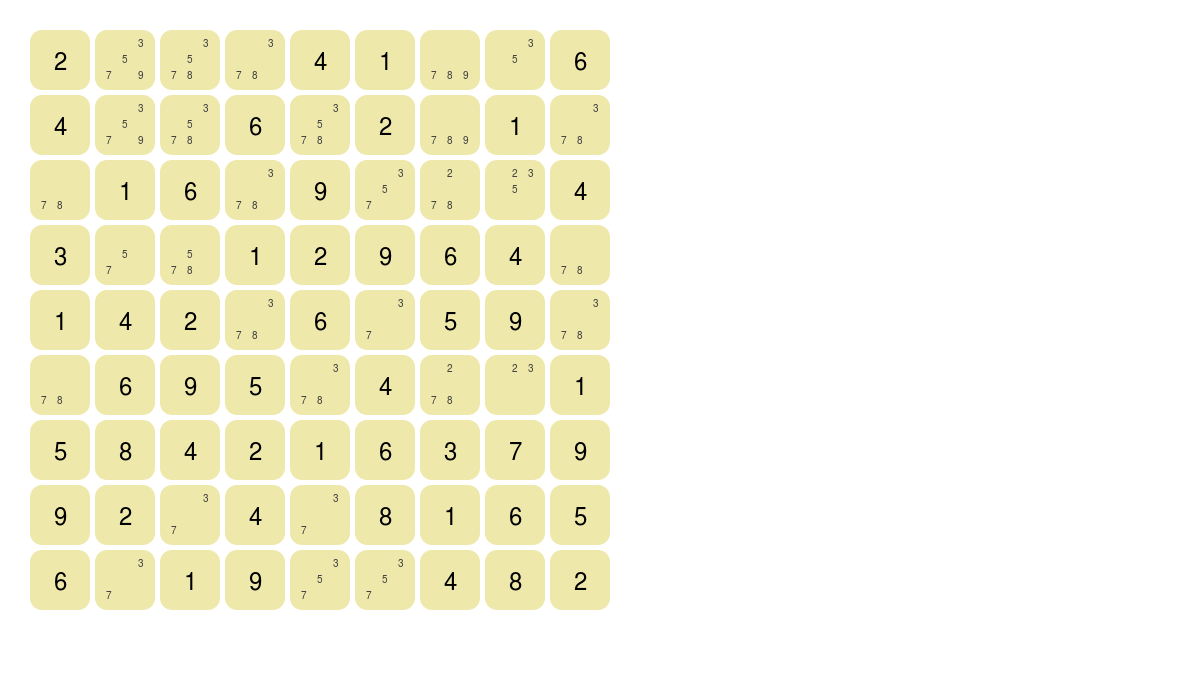
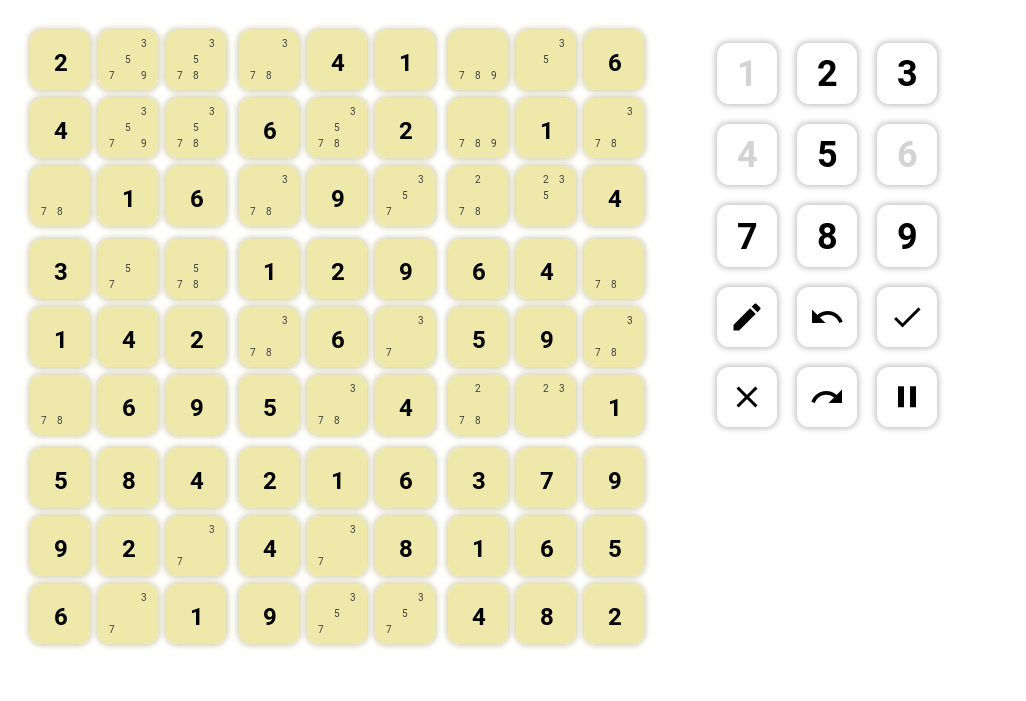
Finish the play controller and all the click wiring, some style tweaks

diff --git a/public/scripts/components/sudokuPlayController.js b/public/scripts/components/sudokuPlayController.js
@@ -32,15 +32,64 @@ var ControllerDigit = React.createClass({
 
     return (
       <td>
-        <div className={buttonClass} onClick={this.onDigitClicked}>
-          <div className={digitClass}>{this.props.digit}</div>
+        <div className={buttonClass} onClick={this.onDigitClicked} padding="5px">
+          <div className={digitClass}>
+            {this.props.digit}
+          </div>
         </div>
       </td>
     );
   },
 
   onDigitClicked: function() {
-    this.props.onDigitClicked(this.props.digit);
+    if (this.props.enabled) {
+      this.props.onDigitClicked(this.props.digit);
+    }
+  }
+
+});
+
+var ControllerButton = React.createClass({
+  propTypes: {
+    iconName: React.PropTypes.string.isRequired,
+    enabled: React.PropTypes.bool.isRequired,
+    selected: React.PropTypes.bool.isRequired,
+    onButtonClicked: React.PropTypes.func.isRequired
+  },
+
+  mixins: [
+    Fluxxor.FluxMixin(React)
+  ],
+
+  render: function() {
+    var buttonClass = classNames({
+      controllerButton: true,
+      controllerButtonEnabled: this.props.enabled,
+      controllerButtonSelected: this.props.selected,
+      controllerButtonDisabled: !this.props.enabled
+    });
+    var iconClass = classNames({
+      controllerIcon: true,
+      controllerIconEnabled: this.props.enabled,
+      controllerIconSelected: this.props.selected,
+      controllerIconDisabled: !this.props.enabled,
+      "material-icons": true,
+      "md-36": true
+    });
+
+    return (
+      <td>
+        <div className={buttonClass} onClick={this.onButtonClicked} padding="5px">
+          <i className={iconClass}>{this.props.iconName}</i>
+        </div>
+      </td>
+    );
+  },
+
+  onButtonClicked: function() {
+    if (this.props.enabled) {
+      this.props.onButtonClicked(this.props.iconName);
+    }
   }
 
 });
@@ -51,7 +100,8 @@ var ControllerFrame = React.createClass({
     digitSelected: React.PropTypes.number.isRequired,
     entryMode: React.PropTypes.string.isRequired,
     digitMode: React.PropTypes.string.isRequired,
-    onDigitClicked: React.PropTypes.func.isRequired
+    onDigitClicked: React.PropTypes.func.isRequired,
+    onButtonClicked: React.PropTypes.func.isRequired
   },
 
   render: function() {
@@ -65,13 +115,48 @@ var ControllerFrame = React.createClass({
         />;
     }
 
+    var tableStyle = {
+      borderCollapse: "separate",
+      borderSpacing: "6px"
+    };
+
     return (
       <div className="controllerFrame">
-        <table><tbody>
-          <tr>{digits[1]}{digits[2]}{digits[3]}</tr>
-          <tr>{digits[4]}{digits[5]}{digits[6]}</tr>
-          <tr>{digits[7]}{digits[8]}{digits[9]}</tr>
-        </tbody></table>
+        <table style={tableStyle}>
+          <tbody>
+            <tr>{digits[1]}{digits[2]}{digits[3]}</tr>
+            <tr>{digits[4]}{digits[5]}{digits[6]}</tr>
+            <tr>{digits[7]}{digits[8]}{digits[9]}</tr>
+            <tr>
+              <ControllerButton iconName="create"
+                                enabled={true}
+                                selected={false}
+                                onButtonClicked={this.props.onButtonClicked} />
+              <ControllerButton iconName="undo"
+                                enabled={true}
+                                selected={false}
+                                onButtonClicked={this.props.onButtonClicked} />
+              <ControllerButton iconName="done"
+                                enabled={true}
+                                selected={false}
+                                onButtonClicked={this.props.onButtonClicked} />
+            </tr>
+            <tr>
+              <ControllerButton iconName="clear"
+                                enabled={true}
+                                selected={false}
+                                onButtonClicked={this.props.onButtonClicked} />
+              <ControllerButton iconName="redo"
+                                enabled={true}
+                                selected={false}
+                                onButtonClicked={this.props.onButtonClicked} />
+              <ControllerButton iconName="pause"
+                                enabled={true}
+                                selected={false}
+                                onButtonClicked={this.props.onButtonClicked} />
+            </tr>
+          </tbody>
+        </table>
       </div>
     );
   }
@@ -101,17 +186,15 @@ var SudokuPlayController = React.createClass({
 
   render: function() {
     var digitsEnabled = [];
-    for (var i = 1; i <= 9; i++) {
-      digitsEnabled[i] = false;
-    }
     if (this.state.playControllerStore.entryMode === EntryMode.CELL_SELECTED) {
-      this.state.puzzleStore.candidates.forEach( (c) => {
-        if (c.getRow() === this.state.playControllerStore.cellRowSelected &&
-            c.getCol() === this.state.playControllerStore.cellColSelected) {
-          digitsEnabled[c.getDigit()] = true;
-        }
-      });
+      for (var i = 1; i <= 9; i++) {
+        digitsEnabled[i] = true;
+      }
     } else {
+      // only enable digits that have not been completely solved yet
+      for (i = 1; i <= 9; i++) {
+        digitsEnabled[i] = false;
+      }
       this.state.puzzleStore.candidates.forEach( (c) => { digitsEnabled[c.getDigit()] = true; });
     }
 
@@ -122,6 +205,7 @@ var SudokuPlayController = React.createClass({
           entryMode={this.state.playControllerStore.entryMode}
           digitMode={this.state.playControllerStore.digitMode}
           onDigitClicked={this.onDigitClicked}
+          onButtonClicked={this.onButtonClicked}
         />
     );
   },
@@ -132,6 +216,10 @@ var SudokuPlayController = React.createClass({
 
   onCellClicked: function(row, col) {
     console.log("Cell clicked at " + row + ", " + col);
+  },
+
+  onButtonClicked: function(iconName) {
+    console.log("Button clicked: " + iconName);
   }
 
 });

diff --git a/public/css/sudokuController.css b/public/css/sudokuController.css
@@ -1,11 +1,19 @@
+/* rule for styling the controller frame */
 .controllerFrame {
 	float:right;
 }
 
+/* rules for styling the controller buttons */
 .controllerButton {
-	height: 65px;
-	width: 65px;
+	height: 60px;
+	width: 60px;
 	background-color: transparent;
+	box-shadow: 0px 0px 5px 2px rgba(178, 178, 176, 0.75);
+	webkit-box-shadow: 0px 0px 5px 2px rgba(178, 178, 176, 0.75);
+	moz-box-shadow: 0px 0px 5px 2px rgba(178, 178, 176, 0.75);
+	border-radius: 20%;
+	display: table-cell;
+    vertical-align: middle 
 }
 
 .controllerButtonSelected {
@@ -21,22 +29,62 @@
 
 }
 
+/* rules for styling the digits in the contoller buttons */
 .controllerDigit {
-	position:absolute;
-	z-index: 2;
-	font-size: 24px;
-	transform: translate(24px, 12px);
+	font-size: 36px;
+	font-family: 'Roboto', sans-serif;
 	font-weight: bold;
+	width: 1ch;
+	display: block;
+    margin-left: auto;
+    margin-right: auto
 }
 
 .controllerDigitEnabled {
-	font-color: black;
+	color: black;
 }
 
 .controllerDigitSelected {
-	font-color: white;
+	color: white;
 }
 
 .controllerDigitDisabled {
-	font-color: gray;
+	color: lightgrey;
+}
+
+/* Rules for sizing the icon. */
+.material-icons.md-18 { font-size: 18px; }
+.material-icons.md-24 { font-size: 24px; }
+.material-icons.md-36 { font-size: 36px; }
+.material-icons.md-48 { font-size: 48px; }
+
+/* Rules for using icons as black on a light background. */
+.material-icons.md-dark { color: rgba(0, 0, 0, 0.54); }
+.material-icons.md-dark.md-inactive { color: rgba(0, 0, 0, 0.26); }
+
+/* Rules for using icons as white on a dark background. */
+.material-icons.md-light { color: rgba(255, 255, 255, 1); }
+.material-icons.md-light.md-inactive { color: rgba(255, 255, 255, 0.3); }
+
+/* app-specific icon rules */
+.controllerIcon {
+	font-size: 36px;
+	width: 1ch;
+	display: block;
+    margin-left: auto;
+    margin-right: auto;
+    vertical-align: middle;
+    text-align: center;
+}
+
+.controllerIconEnabled {
+	color: black;
+}
+
+.controllerIconSelected {
+	color: white;
+}
+
+.controllerIconDisabled {
+	color: lightgrey;
 }

diff --git a/public/scripts/components/sudokuGrid.js b/public/scripts/components/sudokuGrid.js
@@ -1,5 +1,6 @@
 var React = require("react");
 var Fluxxor = require("fluxxor");
+var viewConst = require("../constants/sudokuConst.js").sudokuViewConst;
 
 // component to render a single candidate
 var GridCandidate = React.createClass({
@@ -76,10 +77,20 @@ var GridCell = React.createClass({
   ],
 
   render: function() {
+    var shadow = "0px 0px 5px 2px rgba(198, 194, 153, 0.75)";
+
     var style = {
-      top: this.props.row * 65,
-      left: this.props.col * 65
+      top: this.props.row * (viewConst.GRID_CELL_SIZE + viewConst.GRID_CELL_SPACING) +
+           Math.floor(this.props.row / 3) * viewConst.GRID_UNIT_SPACING,
+      left: this.props.col * (viewConst.GRID_CELL_SIZE + viewConst.GRID_CELL_SPACING) +
+           Math.floor(this.props.col / 3) * viewConst.GRID_UNIT_SPACING,
+      width: viewConst.GRID_CELL_SIZE,
+      height: viewConst.GRID_CELL_SIZE,
+      boxShadow: shadow,
+      WebkitBoxShadow: shadow,
+      MozBoxShadow: shadow
     };
+
     var elem = this.props.solution != 0
         ? <GridSolved solution={this.props.solution} />
         : (this.props.hint != 0
@@ -87,6 +98,7 @@ var GridCell = React.createClass({
           : <GridCandidatesLayer candidates={this.props.candidates} />
           )
     ;
+
     return (
       <div className="gridCell" style={style}
           onClick={this.onCellClicked}>
@@ -147,11 +159,19 @@ var GridFrame = React.createClass({
             solution={cellProps[row][col].solution}
             hint={cellProps[row][col].hint}
             onCellClicked={this.props.onCellClicked}
-            />);
+          />);
       }
     }
+
+    var style = {
+      width: viewConst.GRID_SIZE(),
+      height: viewConst.GRID_SIZE()
+    };
+
     return (
-      <div className="gridFrame">{cells}</div>
+      <div className="gridFrame" style={style}>
+        {cells}
+      </div>
     );
   }
 });

diff --git a/public/scripts/constants/sudokuConst.js b/public/scripts/constants/sudokuConst.js
@@ -48,12 +48,20 @@ sudokuUnitNames[sudokuUnitTypes.BOX] =
     namePlural: "boxes"
   };
 
+var sudokuViewConst = {
+  GRID_CELL_SIZE: 60,
+  GRID_CELL_SPACING: 8,
+  GRID_UNIT_SPACING: 5,
+  GRID_SIZE: function() {
+    return (sudokuViewConst.GRID_CELL_SIZE * 9) +
+           (sudokuViewConst.GRID_CELL_SPACING * 8) +
+           (sudokuViewConst.GRID_UNIT_SPACING * 2);
+  }
+};
+
 module.exports = {
-
   sudokuActionTypes: sudokuActionTypes,
-
   sudokuUnitTypes: sudokuUnitTypes,
-
-  sudokuUnitNames: sudokuUnitNames
-
+  sudokuUnitNames: sudokuUnitNames,
+  sudokuViewConst: sudokuViewConst
 };

diff --git a/public/index.html b/public/index.html
@@ -3,6 +3,8 @@
   <head>
     <meta charset="utf-8">
     <title>Sudoku</title>
+    <link href="https://fonts.googleapis.com/css?family=Roboto:400,700" rel="stylesheet" type="text/css">
+    <link href="https://fonts.googleapis.com/icon?family=Material+Icons" rel="stylesheet">
     <link rel="stylesheet" href="css/base.css" />
     <link rel="stylesheet" href="css/sudokuApp.css" />
     <link rel="stylesheet" href="css/sudokuGrid.css" />

diff --git a/public/css/sudokuGrid.css b/public/css/sudokuGrid.css
@@ -27,16 +27,13 @@
 }
 
 .gridCell {
-	width: 60px;
-	height: 60px;
-	position:absolute;
+	position: absolute;
     background-color: #EEE8AA;
-    border-radius: 12px;
+    border-radius: 20%;
+	font-family: 'Roboto', sans-serif;
 }
 
 .gridFrame {
 	position: relative;
-	width: 600px;
-	height: 600px;
 	float: left;
 }

diff --git a/public/css/sudokuApp.css b/public/css/sudokuApp.css
@@ -1,3 +1,4 @@
 .sudokuApp {
-	width: 100%;
+	width: 920px;
+	height: 650px;
 }
